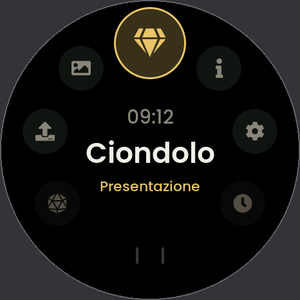
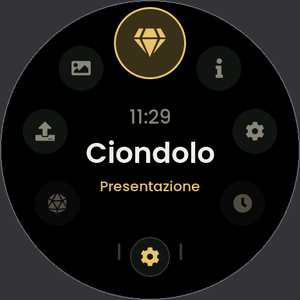
Home shortcut, scrolling menu names, upload page keyboard and video preview
- home: fixed shortcut at 6 o'clock between the horizon strokes, any app,
  Settings by default (Settings > Screen); ring fades out earlier
- menus: names too long for the circle scroll after 1.5 s on the item
- upload page: name field read-only until tapped; new file clears the crop
  view; videos started right away so Safari loads them

Claude-Session: https://claude.ai/code/session_0144MYi1afFV4gkVhoAifbSo

Changed region(s): [[0.39, 0.78, 0.57, 0.93], [0.42, 0.36, 0.6, 0.42], [0.6, 0.81, 0.63, 0.87]]

diff --git a/main/www/upload.html b/main/www/upload.html
@@ -75,7 +75,7 @@ small{color:var(--dim)}
         <div><label data-t="quality"></label><select id="q"><option value="0.6" data-t="qLow"></option><option value="0.72" selected data-t="qMid"></option><option value="0.85" data-t="qHigh"></option></select></div>
       </div>
     </div>
-    <label data-t="name"></label><input type="text" id="name" maxlength="40" enterkeyhint="done" autocomplete="off" autocapitalize="none" spellcheck="false">
+    <label data-t="name"></label><input type="text" id="name" maxlength="40" readonly enterkeyhint="done" autocomplete="off" autocapitalize="none" spellcheck="false">
     <div class="row" style="margin-top:16px"><button class="ghost" id="skip" data-t="skip"></button><button id="send" data-t="send"></button></div>
     <div id="prog" class="hidden"><div class="bar"><div id="barIn"></div></div><div class="hint" id="progT"></div></div>
   </div>
@@ -373,6 +373,10 @@ function safeName(n) {
 
 async function openFile(f) {
   if (document.activeElement && document.activeElement.blur) document.activeElement.blur();
+  stopPreview();
+  src = null;
+  ctx.fillStyle = "#000";
+  ctx.fillRect(0, 0, S, S);
   $("editor").classList.remove("hidden");
   $("prog").classList.add("hidden");
   $("send").disabled = $("skip").disabled = false;
@@ -395,8 +399,18 @@ async function openFile(f) {
       video = document.createElement("video");
       video.muted = true; video.playsInline = true; video.preload = "auto";
       video.src = URL.createObjectURL(f);
-      await new Promise((r, j) => { video.onloadeddata = r; video.onerror = j; });
-      try { await video.play(); video.pause(); } catch (e) {}
+      // Safari (iPhone) does not load anything until the video is started: start it muted
+      // straight away and wait for the first frame (or give up after a while)
+      const ready = new Promise((r, j) => {
+        video.onloadeddata = r;
+        video.oncanplay = r;
+        video.onerror = j;
+        setTimeout(() => (video.readyState >= 2 ? r() : j(new Error("timeout"))), 8000);
+      });
+      video.load();
+      video.play().catch(() => {});
+      await ready;
+      video.pause();
       await seek(0);
       src = video; srcW = video.videoWidth; srcH = video.videoHeight;
       $("vidOpts").classList.remove("hidden");
@@ -549,6 +563,10 @@ $("pick").onclick = () => $("file").click();
 $("file").onchange = e => { files = [...e.target.files]; fileIdx = 0; if (files.length) openFile(files[0]); };
 $("send").onclick = send;
 $("name").addEventListener("keydown", e => { if (e.key == "Enter") { e.preventDefault(); $("name").blur(); } });
+// the keyboard only when the name is tapped on purpose: read-only otherwise, so no automatic
+// focus (iOS brings the keyboard up for any focused field)
+$("name").addEventListener("click", () => { const n = $("name"); if (n.readOnly) { n.readOnly = false; n.focus(); } });
+$("name").addEventListener("blur", () => { $("name").readOnly = true; });
 $("skip").onclick = nextFile;
 
 loadInfo().catch(() => {});

diff --git a/main/apps/home.c b/main/apps/home.c
@@ -4,6 +4,9 @@
 // At the end of the list the ring either goes on from the start (loop) or stops, leaving that
 // side of the circle empty (Settings > Screen > Home list).
 //
+// At 6 o'clock, between the two strokes of the horizon, a fixed shortcut: one app chosen in
+// Settings > Screen > Shortcut (Settings by default). It stays in the ring too.
+//
 // The ring follows the finger: sliding clockwise along the edge moves the icons clockwise.
 // No LVGL transforms (they force extra layers: slow, and they tear on this panel); the discs
 // change size directly.
@@ -32,14 +35,19 @@ static const app_t apps[] = {
 #define D_BIG    112      // disc at the top
 #define D_SMALL  70       // discs along the ring
 #define STEP     40.0f    // degrees between two apps
-#define HORIZON  4.0f     // offset (in apps) where an app reaches the line at the bottom
+#define HORIZON  3.5f     // offset (in apps) where an app fades out, before the shortcut at the bottom
+#define D_SHORT  62       // the shortcut at 6 o'clock
 #define POOL     9        // discs in use: offsets -4..+4
 
 static int sel;            // virtual index: in loop mode it can be any integer
 static float pos;          // animated position, same units
-static lv_obj_t *disc[POOL], *ico[POOL], *line_l, *line_r, *time_l, *name_l, *sub_l;
+static lv_obj_t *disc[POOL], *ico[POOL], *line_l, *line_r, *time_l, *name_l, *sub_l, *short_d, *short_i;
 
 static bool loop_mode(void) { return g_set.home_loop; }
+
+int home_app_count(void) { return N_APPS; }
+const char *home_app_name(int i) { return T(apps[((i % N_APPS) + N_APPS) % N_APPS].name); }
+static int shortcut(void) { return g_set.home_shortcut < N_APPS ? g_set.home_shortcut : HOME_SHORTCUT_DEFAULT; }
 static int app_of(int v) { return ((v % N_APPS) + N_APPS) % N_APPS; }
 
 // half of the visible offsets: in loop mode an app never shows twice at the same time
@@ -146,12 +154,14 @@ static void go(int d)
     refresh_text();
 }
 
-static void open_app(void)
+static void open_index(int i)
 {
-    const app_t *a = &apps[app_of(sel)];
+    const app_t *a = &apps[i];
     if (!a->scr) { pendant_resume(); return; }
     ui_push(a->scr, NULL);
 }
+
+static void open_app(void) { open_index(app_of(sel)); }
 
 static lv_obj_t *tick_mark(lv_obj_t *root, float deg)
 {
@@ -173,8 +183,14 @@ static void enter(lv_obj_t *root, void *arg)
         sel = app_of(sel);
     }
     pos = sel;
-    line_l = tick_mark(root, 90 - 7);
-    line_r = tick_mark(root, 90 + 7);
+    line_l = tick_mark(root, 90 - 17);
+    line_r = tick_mark(root, 90 + 17);
+    short_d = ui_circle(root, D_SHORT, C_CARD);
+    lv_obj_set_style_border_color(short_d, C_FAINT, 0);
+    lv_obj_set_style_border_width(short_d, 2, 0);
+    lv_obj_set_pos(short_d, SCR_C - D_SHORT / 2, SCR_C + RING_R - D_SHORT / 2);
+    short_i = ui_label(short_d, &font_m, ui_accent(), apps[shortcut()].icon);
+    lv_obj_center(short_i);
     for (int k = 0; k < POOL; k++) {
         disc[k] = ui_circle(root, D_SMALL, C_CARD);
         lv_obj_set_style_border_color(disc[k], ui_accent(), 0);
@@ -207,6 +223,8 @@ static bool event(ev_t e, int x, int y)
     case EV_TAP: {
         int dx = x - SCR_C, dy = y - SCR_C;
         if (dx * dx + dy * dy < 120 * 120) { open_app(); return true; }
+        int sx = x - SCR_C, sy = y - (SCR_C + RING_R);   // the shortcut at the bottom
+        if (sx * sx + sy * sy < (D_SHORT / 2 + 12) * (D_SHORT / 2 + 12)) { open_index(shortcut()); return true; }
         // a tap on a disc: bring it up (or open it if it is already there)
         for (int v = sel - 4; v <= sel + 4; v++) {
             lv_obj_t *o = disc[((v % POOL) + POOL) % POOL];

diff --git a/main/menu.c b/main/menu.c
@@ -7,6 +7,8 @@
 static menu_t *m;
 static lv_obj_t *title, *group, *prev, *next, *track, *thumb;
 static bool editing;
+static uint32_t shown_at;   // when the current item came up: a long name starts scrolling after a while
+static int shown_sel = -1;
 static int confirm_sel = -1;
 static uint32_t confirm_until;
 
@@ -28,7 +30,12 @@ static void refresh(int dir)
     if (!m || !m->count) return;
     const menu_item_t *it = &m->items[m->sel];
     lv_label_set_text(icon, it->icon ? it->icon : "");
-    lv_label_set_text(label, item_text(it));
+    if (shown_sel != m->sel) {   // a new item: its name cut with "...", scrolls only after a pause
+        shown_sel = m->sel;
+        shown_at = lv_tick_get();
+        lv_label_set_long_mode(label, LV_LABEL_LONG_DOT);
+    }
+    ui_set_text(label, item_text(it));
     char v[96] = "";
     if (confirm_sel == m->sel) strlcpy(v, T(S_TAP_AGAIN), sizeof(v));
     else if (it->value) it->value(v, sizeof(v));
@@ -93,6 +100,7 @@ static void enter(lv_obj_t *root, void *arg)
     // a rebuild of the same menu (new accent, language) stays in edit mode
     if (arg != last) editing = false;
     last = m = arg;
+    shown_sel = -1;
     confirm_sel = -1;
     if (m->sel >= m->count) m->sel = m->count ? m->count - 1 : 0;
     title = ui_label(root, &font_s, ui_accent(), T(m->title));
@@ -184,6 +192,10 @@ static bool event(ev_t e, int x, int y)
 static void tick(void)
 {
     if (!m || !m->count) return;
+    // resting on an item: a name too long for the circle scrolls (only if it does not fit)
+    if (shown_sel == m->sel && lv_label_get_long_mode(label) != LV_LABEL_LONG_SCROLL_CIRCULAR &&
+        lv_tick_get() - shown_at > 1500)
+        lv_label_set_long_mode(label, LV_LABEL_LONG_SCROLL_CIRCULAR);
     if (confirm_sel >= 0 && (int32_t)(lv_tick_get() - confirm_until) > 0) { confirm_sel = -1; refresh(0); return; }
     // values that change by themselves (Wi-Fi state, battery...)
     const menu_item_t *it = &m->items[m->sel];

diff --git a/main/apps/settings_app.c b/main/apps/settings_app.c
@@ -56,14 +56,23 @@ static void a_sleep(int d) { g_set.sleep_s = step_list(sleep_vals, 7, g_set.slee
 static void v_homeloop(char *b, int n) { snprintf(b, n, "%s", T(g_set.home_loop ? S_HOME_LOOP : S_HOME_STOP)); }
 static void a_homeloop(int d) { g_set.home_loop = !g_set.home_loop; settings_mark(); }
 
+static void v_shortcut(char *b, int n) { snprintf(b, n, "%s", home_app_name(g_set.home_shortcut)); }
+static void a_shortcut(int d)
+{
+    int n = home_app_count();
+    g_set.home_shortcut = (uint8_t)(((g_set.home_shortcut + d) % n + n) % n);
+    settings_mark();
+}
+
 static const menu_item_t screen_items[] = {
     {IC_SUN, S_BRIGHTNESS, NULL, v_bright, NULL, a_bright},
     {IC_ROTATE, S_ROTATION, NULL, v_rot, NULL, a_rot},
     {IC_PALETTE, S_ACCENT, NULL, v_accent, NULL, a_accent},
     {IC_HOURGLASS, S_AUTO_OFF, NULL, v_sleep, NULL, a_sleep},
     {IC_HOME, S_HOME_LIST, NULL, v_homeloop, NULL, a_homeloop},
+    {IC_STAR, S_HOME_SHORTCUT, NULL, v_shortcut, NULL, a_shortcut},
 };
-static menu_t screen_menu = {S_SET_SCREEN, screen_items, 5, 0};
+static menu_t screen_menu = {S_SET_SCREEN, screen_items, 6, 0};
 
 /* ---------------- Battery ---------------- */
 

diff --git a/tools/sim/sim_main.c b/tools/sim/sim_main.c
@@ -124,6 +124,7 @@ int main(int argc, char **argv)
     g_set.dice_shake = 1;
     g_set.home_loop = 1;
     g_set.battery_mah = 500;
+    g_set.home_shortcut = HOME_SHORTCUT_DEFAULT;
     report = fopen("out/layout-report.md", "w");
     fprintf(report, "# Layout report\n\nText outside the round screen (466 px circle):\n\n");
 
@@ -172,6 +173,13 @@ int main(int argc, char **argv)
     shot("11_settings_screen");
     ev(EV_TAP, SCR_C, SCR_C);
     shot("12_settings_brightness_edit");
+    ev(EV_TAP, SCR_C, SCR_C);
+    for (int i = 0; i < 5; i++) ev(EV_DIAL_CW, 400, 200);   // Shortcut at the bottom (long name)
+    shot("12b_settings_long_name_dots");
+    run(2500);
+    shot("12c_settings_long_name_scrolling");
+    for (int i = 0; i < 5; i++) ev(EV_DIAL_CCW, 400, 200);
+    ev(EV_TAP, SCR_C, SCR_C);
     ev(EV_TAP, SCR_C, SCR_C);
     ev(EV_BOOT_CLICK, 0, 0);
     ev(EV_DIAL_CCW, 400, 200);

diff --git a/main/ui.h b/main/ui.h
@@ -171,6 +171,11 @@ extern const screen_t scr_home, scr_gallery, scr_pendant, scr_upload, scr_clock,
                       scr_quick, scr_settings, scr_wifi, scr_wifi_scan, scr_wifi_portal, scr_ota,
                       scr_keyboard, scr_dice, scr_dice_favs, scr_dice_hist, scr_dice_stats;
 
+// the launcher's apps (for the shortcut setting)
+int  home_app_count(void);
+const char *home_app_name(int i);
+#define HOME_SHORTCUT_DEFAULT 5   // Settings
+
 // pendant mode: start = index in the media list, slideshow or a single media
 typedef struct { int start; bool slideshow; } pendant_arg_t;
 void pendant_start(int index, bool slideshow);

diff --git a/main/settings.c b/main/settings.c
@@ -1,6 +1,7 @@
 // settings.c - NVS storage. The NVS partition sits at the end of the flash (partitions.csv),
 // where neither the USB image nor an OTA update ever writes.
 #include "settings.h"
+#include "ui.h"
 #include <string.h>
 #include "nvs_flash.h"
 #include "nvs.h"
@@ -40,6 +41,7 @@ static void defaults(settings_t *s)
     s->wifi_save = 1;
     s->battery_mah = 500;
     s->battery_care = 0;
+    s->home_shortcut = HOME_SHORTCUT_DEFAULT;
 }
 
 void settings_load(void)

diff --git a/main/settings.h b/main/settings.h
@@ -44,6 +44,8 @@ typedef struct {
     uint8_t  wifi_save;         // Wi-Fi off in pendant mode and with the screen off
     uint16_t battery_mah;       // battery capacity: charge current, warnings
     uint8_t  battery_care;      // charge to 4.1 V (~90 %) instead of 4.2 V
+    // 0.1.16
+    uint8_t  home_shortcut;     // app on the fixed button at the bottom of the home ring (home.c order)
 } settings_t;
 
 extern settings_t g_set;

diff --git a/main/i18n.c b/main/i18n.c
@@ -145,6 +145,7 @@ static const char *const tab[S_COUNT][LANG_COUNT] = {
     [S_DH_WITH_HOPE] = {"con Speranza", "with Hope"},
     [S_DH_WITH_FEAR] = {"con Paura", "with Fear"},
     [S_DH_CRIT] = {"CRITICO!", "CRITICAL!"},
+    [S_HOME_SHORTCUT] = {"Scorciatoia in basso", "Shortcut at the bottom"},
 };
 
 const char *T(int id)

diff --git a/main/i18n.h b/main/i18n.h
@@ -147,6 +147,7 @@ typedef enum {
     S_DH_WITH_HOPE,
     S_DH_WITH_FEAR,
     S_DH_CRIT,
+    S_HOME_SHORTCUT,
     S_COUNT
 } str_t;
 

diff --git a/CHANGELOG.md b/CHANGELOG.md
@@ -5,6 +5,17 @@ number of the published release (`0.1.<build>`).
 
 ## Next
 
+- Home: a fixed shortcut at 6 o'clock between the two horizon strokes, any app of the ring
+  (Settings by default, Settings › Screen › Shortcut at the bottom). The ring now fades out a
+  little earlier to leave it room.
+- Menus: a name too long for the circle scrolls after resting on it for 1.5 s.
+- Upload page: the name field is read-only until tapped (iOS kept opening the keyboard);
+  a new file clears the crop view first; videos are started right away so Safari loads them
+  (the previous GIF stayed on screen until play was pressed).
+
+## 0.1.15
+
+
 - Upload page: Delete asks for confirmation inside the page (tap twice); the browser's own
   dialogs never showed in the mini browser of the pendant's hotspot, so Delete did nothing.
 - Upload page: no focused field is left behind after the PIN (the keyboard kept opening);

diff --git a/README.md b/README.md
@@ -115,7 +115,8 @@ The apps sit on a ring along the edge, the selected one at 12 o'clock. At 6 o'cl
 small strokes mark a horizon: apps sliding towards it fade out and new ones come in from the
 other side, so the list has room for any number of apps. Settings › Screen › **App list**:
 *Loops* (after the last app comes the first again) or *Stops at the ends* (at the first or last
-app that half of the circle stays empty).
+app that half of the circle stays empty). Between the two strokes sits a fixed **shortcut** to
+any app, Settings by default (Settings › Screen › Shortcut at the bottom).
 
 ## Apps
 
